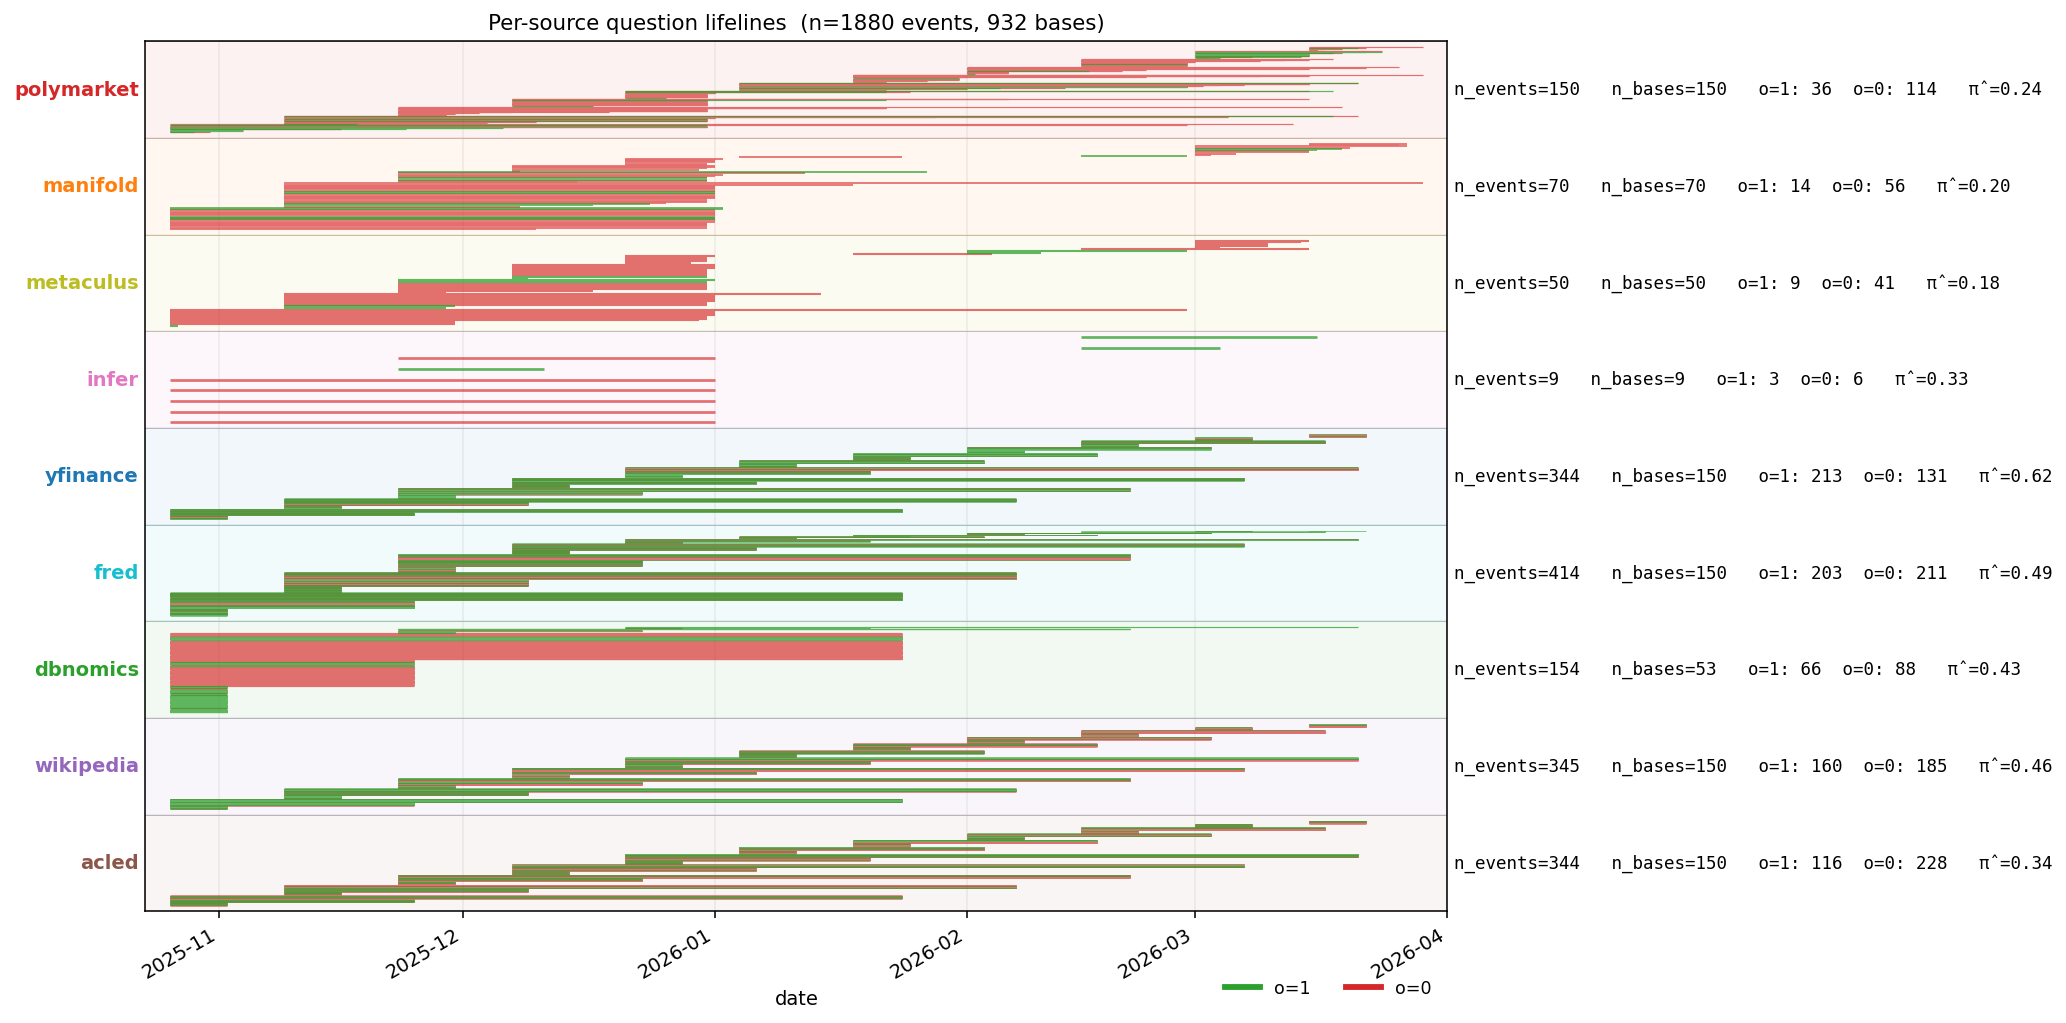
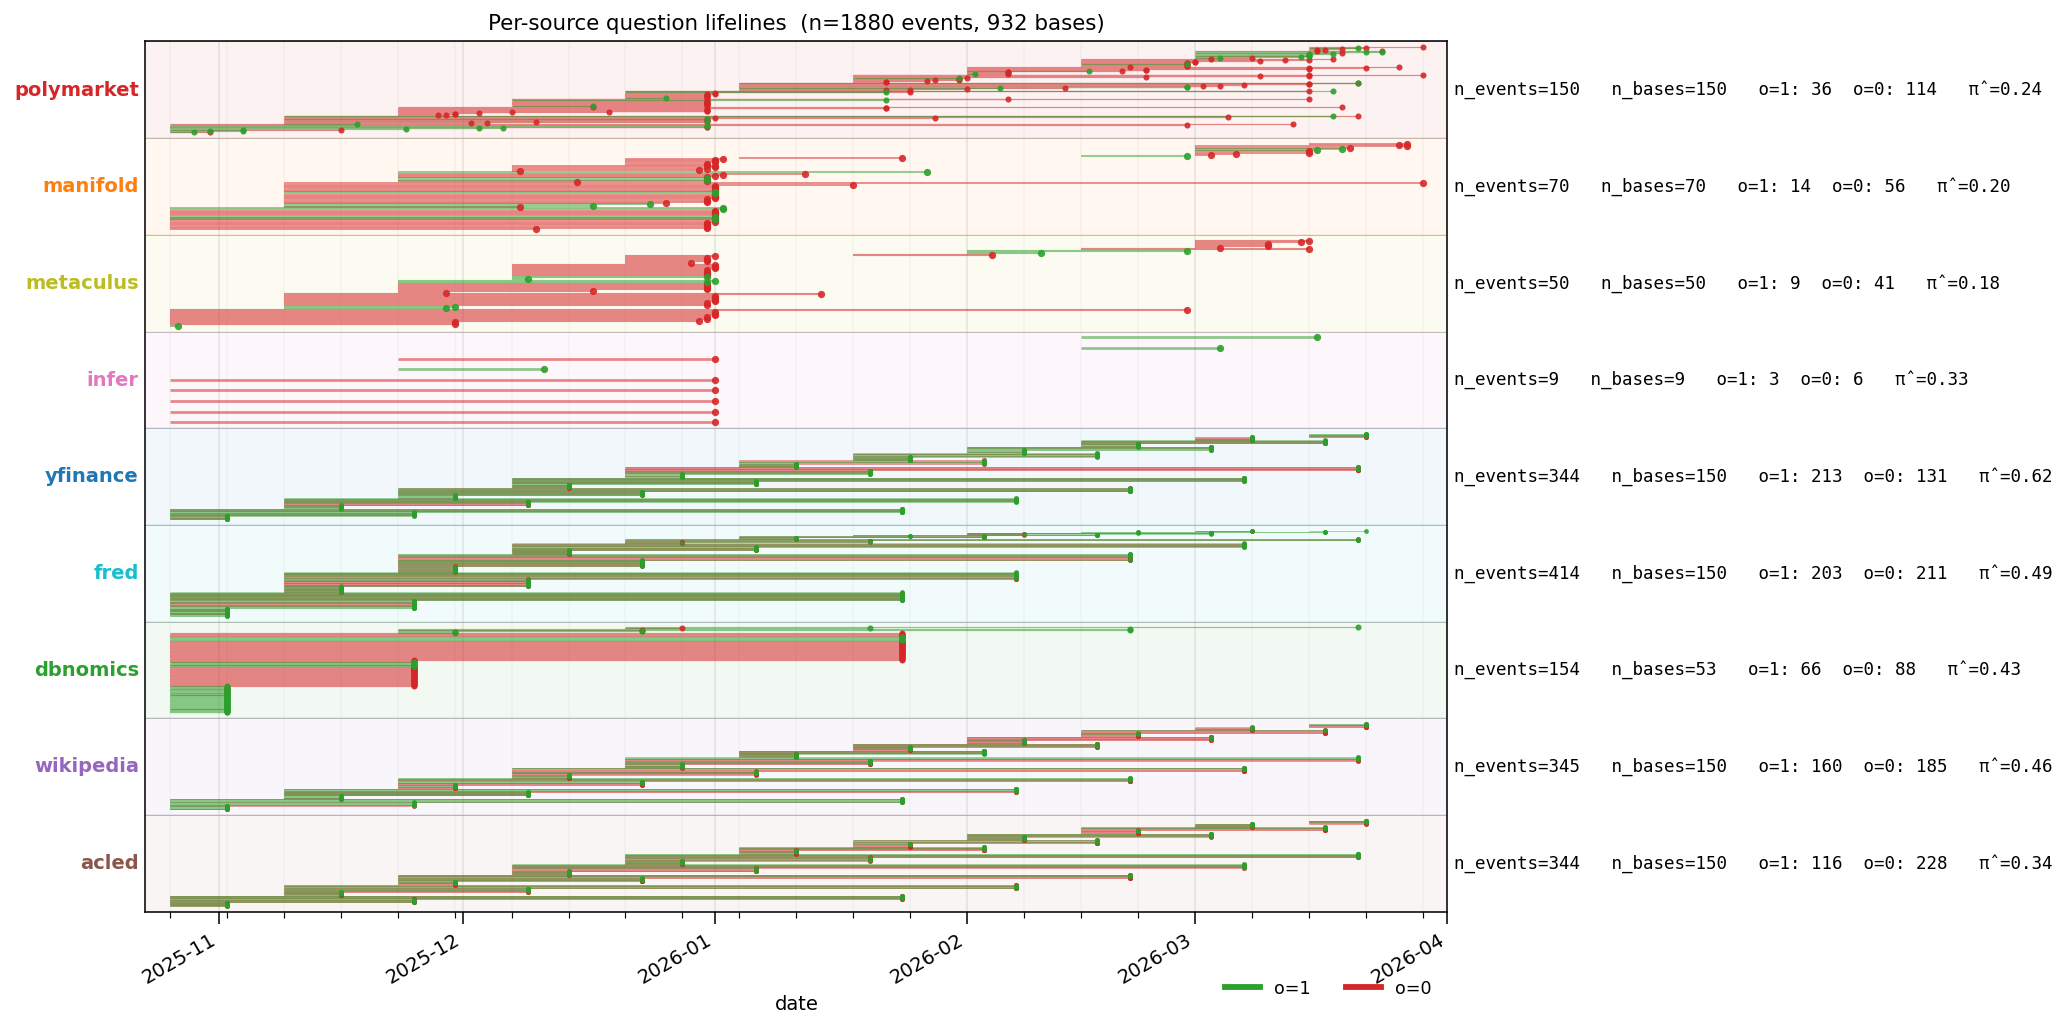
CFB plots: weekly minor ticks + endpoint dots on lifelines
- Monthly major ticks (labelled) + weekly minor ticks (Sundays, light
  gridlines) across all three figures.
- Lifeline plot: small outcome-coloured dot at each line's right endpoint,
  sized adaptively by lane density. Gives an unbiased event-count read
  regardless of how long each lifeline extends — fixes a perceptual bias
  where sources with horizon-asymmetric outcomes (e.g. dbnomics: avg
  negative horizon 56d vs positive 23d) looked far redder than the
  count-based π̂ implies.
- Equalised line alpha for o=0 and o=1 (was 0.65 vs 0.75).

diff --git a/src/cfb/plot_pool.py b/src/cfb/plot_pool.py
@@ -88,13 +88,22 @@ def plot_q(pool, out_path):
     ax.set_title(f"Asked-day cadence — n={len(pool)} events", fontsize=11)
     ax.legend(loc="center left", bbox_to_anchor=(1.01, 0.5),
               fontsize=8, frameon=False, title="source")
-    ax.xaxis.set_major_locator(mdates.MonthLocator())
-    ax.xaxis.set_major_formatter(mdates.DateFormatter("%Y-%m"))
-    ax.grid(True, alpha=0.25, axis="x")
+    _format_xaxis(ax)
     fig.autofmt_xdate()
     fig.savefig(out_path, dpi=140, bbox_inches="tight")
     plt.close(fig)
     print(f"wrote {out_path}")
+
+
+def _format_xaxis(ax):
+    """Monthly major ticks (labelled), weekly minor ticks (unlabelled)."""
+    ax.xaxis.set_major_locator(mdates.MonthLocator())
+    ax.xaxis.set_major_formatter(mdates.DateFormatter("%Y-%m"))
+    ax.xaxis.set_minor_locator(mdates.WeekdayLocator(byweekday=mdates.SU))
+    ax.grid(True, which="major", alpha=0.30, axis="x")
+    ax.grid(True, which="minor", alpha=0.10, axis="x", linestyle="-")
+    ax.tick_params(axis="x", which="minor", length=3)
+    ax.tick_params(axis="x", which="major", length=6)
 
 
 # --- R(t) ---------------------------------------------------------------------
@@ -130,9 +139,7 @@ def plot_r(pool, out_path):
                  fontsize=11)
     ax.legend(loc="center left", bbox_to_anchor=(1.01, 0.5),
               fontsize=8, frameon=False, title="source")
-    ax.xaxis.set_major_locator(mdates.MonthLocator())
-    ax.xaxis.set_major_formatter(mdates.DateFormatter("%Y-%m"))
-    ax.grid(True, alpha=0.25, axis="x")
+    _format_xaxis(ax)
     fig.autofmt_xdate()
     fig.savefig(out_path, dpi=140, bbox_inches="tight")
     plt.close(fig)
@@ -195,12 +202,29 @@ def plot_swimlanes(pool, out_path):
                 seg_y_neg.extend([ys[j], ys[j], None])
 
         lw = max(0.25, min(1.4, 1.4 / max(np.sqrt(n / 30.0), 1.0)))
+        line_alpha = 0.55  # equal for both outcomes — was biased toward pos
         if seg_x_neg:
             ax.plot(seg_x_neg, seg_y_neg, color=OUTCOME_FALSE, lw=lw,
-                    alpha=0.65, solid_capstyle="butt")
+                    alpha=line_alpha, solid_capstyle="butt")
         if seg_x_pos:
             ax.plot(seg_x_pos, seg_y_pos, color=OUTCOME_TRUE, lw=lw,
-                    alpha=0.75, solid_capstyle="butt")
+                    alpha=line_alpha, solid_capstyle="butt")
+
+        # Endpoint dots — give an unbiased outcome read regardless of horizon
+        # length. Size adapts to lane density so dots don't blob together.
+        dot_size = max(2.0, min(14.0, 22.0 / max(np.sqrt(n / 30.0), 1.0)))
+        ep_x_pos, ep_y_pos, ep_x_neg, ep_y_neg = [], [], [], []
+        for j, e in enumerate(es):
+            if e.o == 1:
+                ep_x_pos.append(e.r); ep_y_pos.append(ys[j])
+            else:
+                ep_x_neg.append(e.r); ep_y_neg.append(ys[j])
+        if ep_x_neg:
+            ax.scatter(ep_x_neg, ep_y_neg, s=dot_size, c=OUTCOME_FALSE,
+                       marker="o", lw=0, alpha=0.9, zorder=3)
+        if ep_x_pos:
+            ax.scatter(ep_x_pos, ep_y_pos, s=dot_size, c=OUTCOME_TRUE,
+                       marker="o", lw=0, alpha=0.9, zorder=4)
 
         # Source label on left margin
         ax.text(-0.005, (y_top + y_bot) / 2, src,
@@ -234,9 +258,7 @@ def plot_swimlanes(pool, out_path):
     ax.set_title(f"Per-source question lifelines  (n={len(pool)} events, "
                  f"{len(set((e.source, e.meta['base_id']) for e in pool))} bases)",
                  fontsize=11)
-    ax.xaxis.set_major_locator(mdates.MonthLocator())
-    ax.xaxis.set_major_formatter(mdates.DateFormatter("%Y-%m"))
-    ax.grid(True, alpha=0.20, axis="x")
+    _format_xaxis(ax)
     fig.autofmt_xdate()
     fig.savefig(out_path, dpi=140, bbox_inches="tight")
     plt.close(fig)
